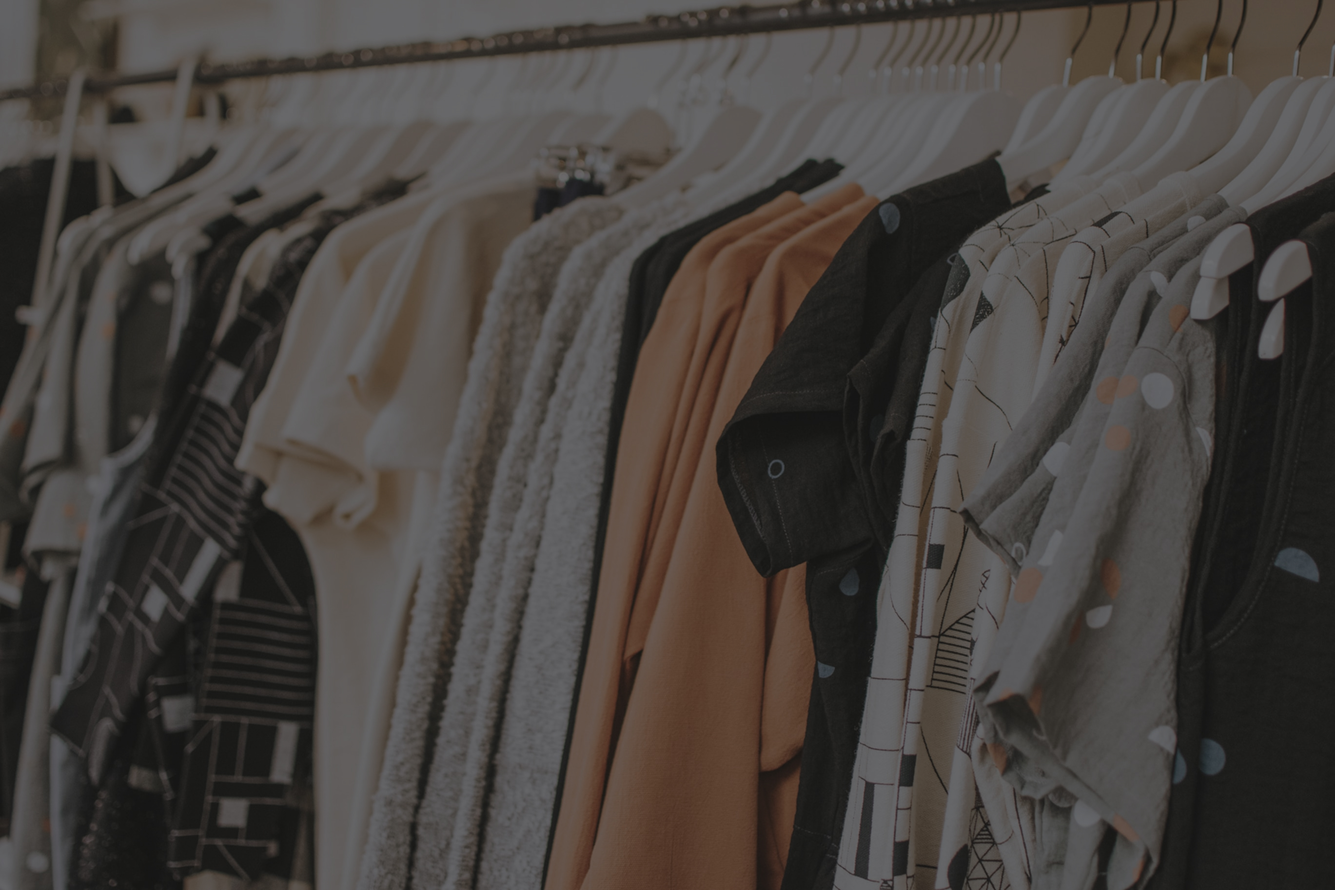
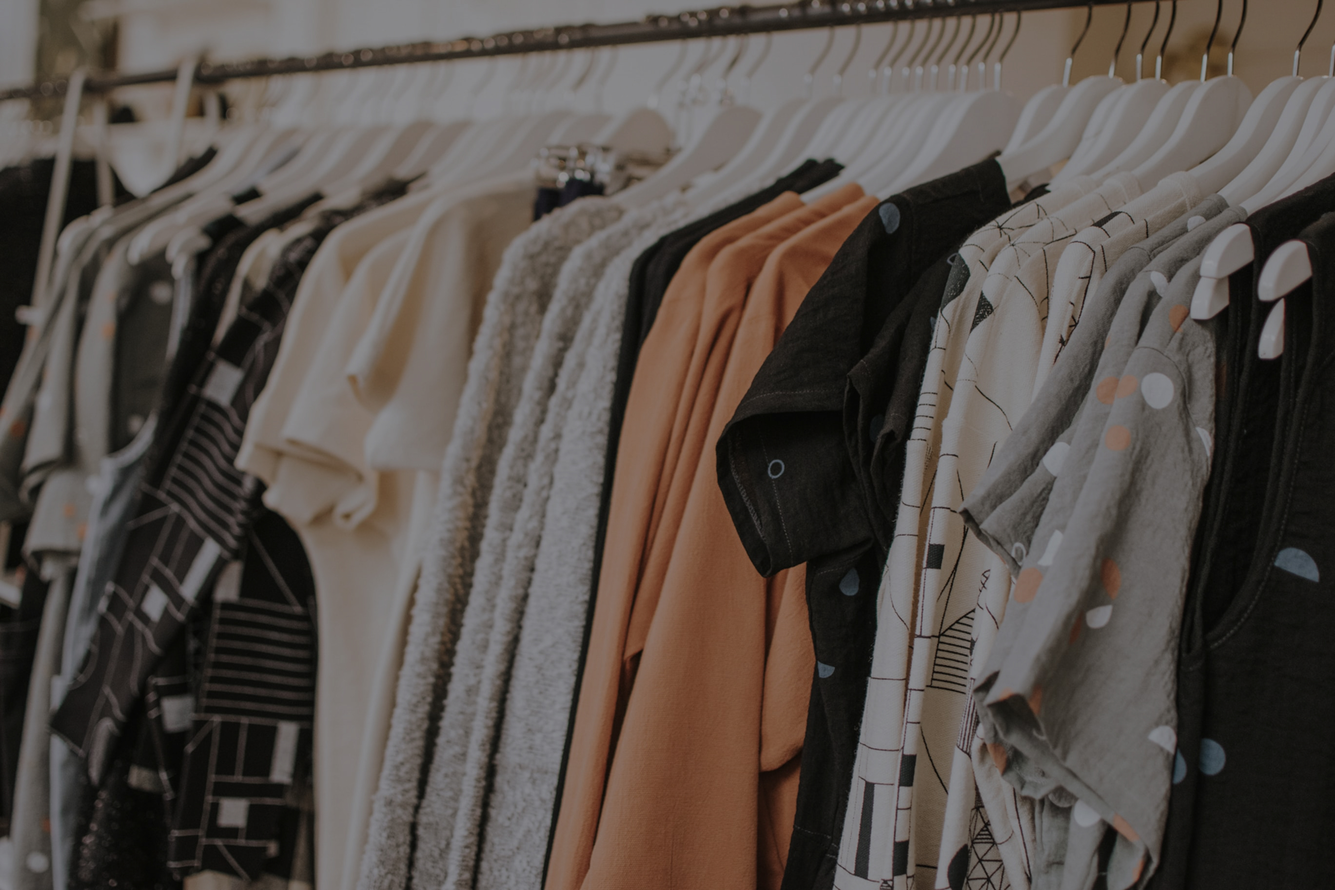
Tweak role background image, smooth fonts throughout page, change height of blog component

diff --git a/src/styles/GlobalStyle.js b/src/styles/GlobalStyle.js
@@ -35,6 +35,8 @@ const GlobalStyle = createGlobalStyle`
         min-height: 100%;
         background-color: var(--darkgrey);
         margin: 0;
+        -webkit-font-smoothing: antialiased;
+        -moz-osx-font-smoothing: grayscale;
     }
 `
 

diff --git a/src/components/content/blog.js b/src/components/content/blog.js
@@ -4,7 +4,7 @@ import sr from "@utils/scrollreveal";
 import { Heading, BlogCard } from "@styles";
 
 const Div = styled.div`
-    height: 70vh;
+    height: 100vh;
     grid-column: 2 / span 3;
     display: grid;
 `;
